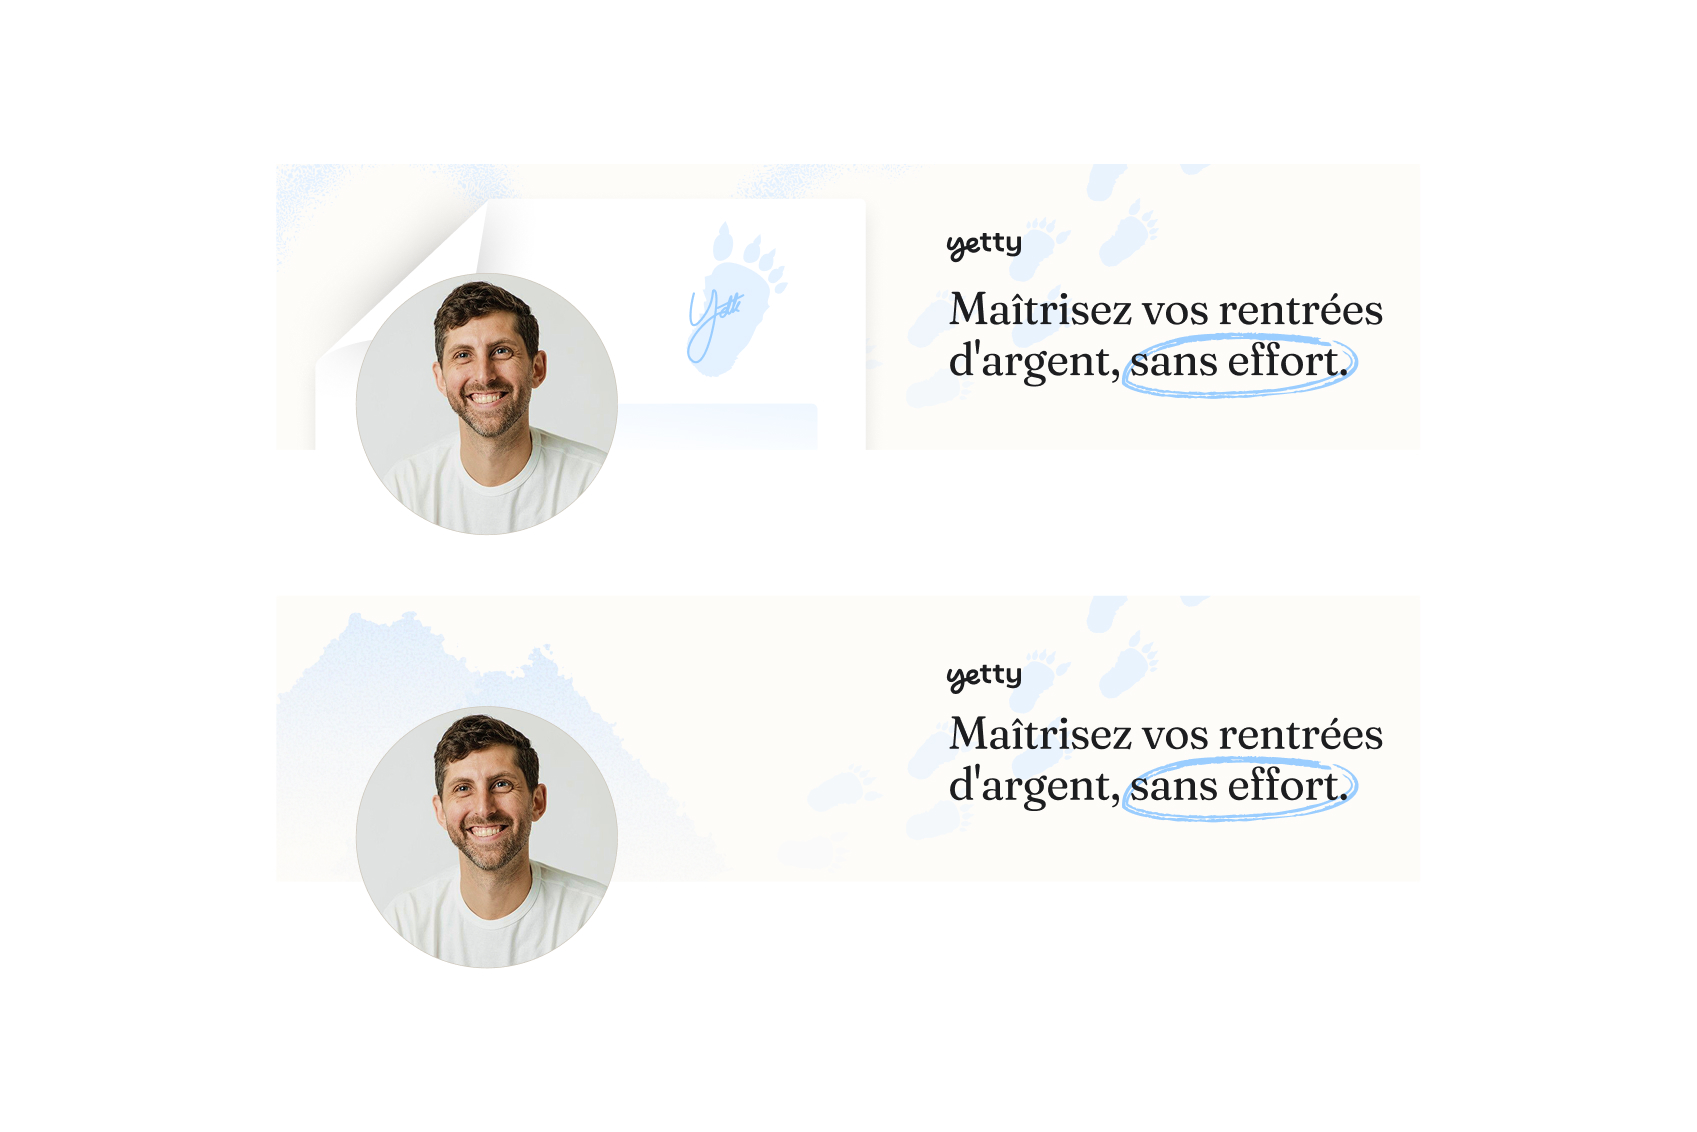
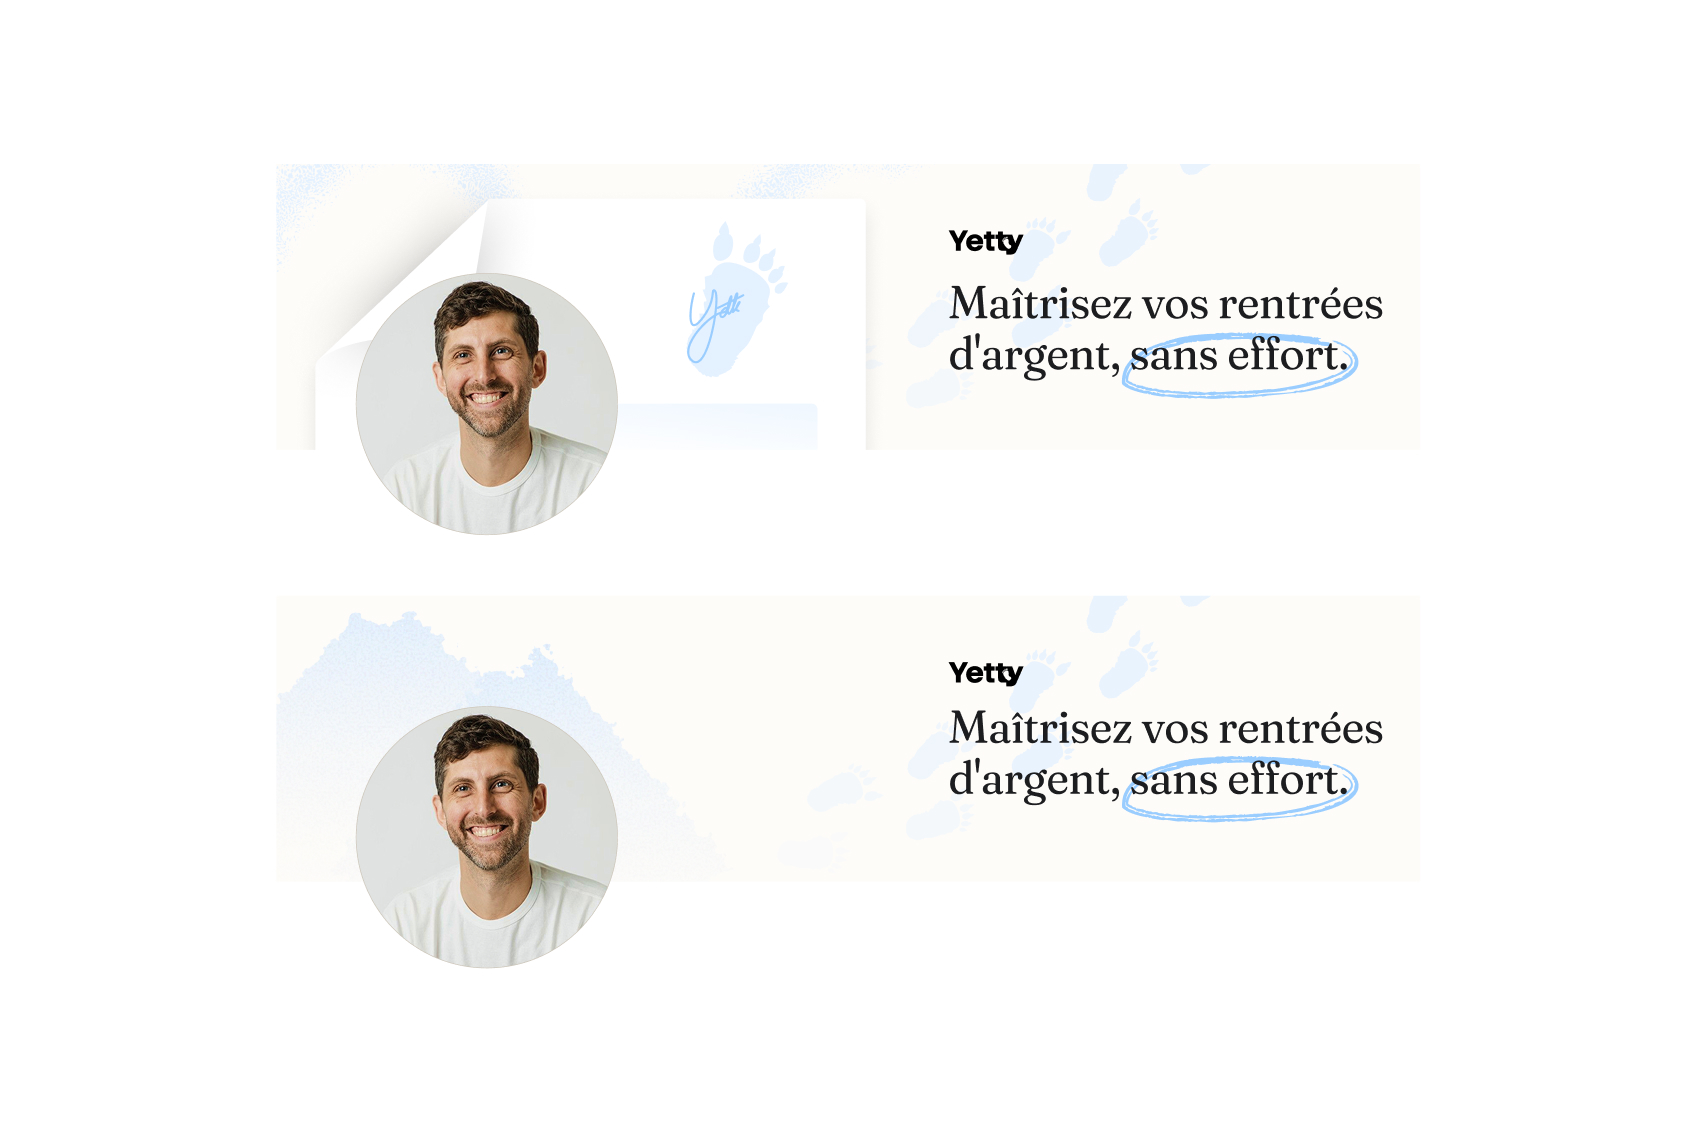
Add Paymium marquee photo and swap Yetty visuals 2, 4, 5
Follow-up to 60abd1d: that commit only captured the removal of the old
paymium-graphic/coin assets, not the actual new image and markup/visual
changes (partial git add failure).

Changed region(s): [[0.5622, 0.5875, 0.812, 0.7111], [0.5622, 0.1855, 0.812, 0.3401]]

diff --git a/index.html b/index.html
@@ -64,23 +64,6 @@
     .yetty-mascot { width: 40%; height: auto; display: block; }
 
     .card-paymium { background: #ffffff; }
-    .paymium-graphic {
-      position: absolute;
-      left: 48.206%;
-      top: 42.706%;
-      transform: translate(-50%, -50%);
-      width: 103.59%;
-      height: auto;
-    }
-    .paymium-coin {
-      position: absolute;
-      left: 40.724%;
-      top: 103.94%;
-      transform: translate(-50%, -50%);
-      width: 164.13%;
-      aspect-ratio: 1 / 1;
-      object-fit: cover;
-    }
 
     .pixid-overlay { position: absolute; inset: 0; background: rgba(0, 0, 0, 0.18); }
     .pixid-logo {
@@ -170,8 +153,7 @@
           <img class="yetty-mascot" src="assets/home-marquee/yetty-mascot.png" alt="Yetty">
         </a>
         <a class="marquee-card card-paymium" href="project-paymium.html">
-          <img class="paymium-graphic" src="assets/home-marquee/paymium-graphic.svg" alt="Paymium">
-          <img class="paymium-coin" src="assets/home-marquee/coin.png" alt="">
+          <img class="bg-cover" src="assets/home-marquee/paymium-card.jpg" alt="Paymium">
         </a>
         <a class="marquee-card card-pixid" href="project-pixid.html">
           <img class="bg-cover" src="assets/home-marquee/pixid-bg.jpg" alt="Pixid">
@@ -201,8 +183,7 @@
           <img class="yetty-mascot" src="assets/home-marquee/yetty-mascot.png" alt="Yetty">
         </a>
         <a class="marquee-card card-paymium" href="project-paymium.html">
-          <img class="paymium-graphic" src="assets/home-marquee/paymium-graphic.svg" alt="Paymium">
-          <img class="paymium-coin" src="assets/home-marquee/coin.png" alt="">
+          <img class="bg-cover" src="assets/home-marquee/paymium-card.jpg" alt="Paymium">
         </a>
         <a class="marquee-card card-pixid" href="project-pixid.html">
           <img class="bg-cover" src="assets/home-marquee/pixid-bg.jpg" alt="Pixid">
@@ -236,8 +217,7 @@
         <img class="yetty-mascot" src="assets/home-marquee/yetty-mascot.png" alt="Yetty">
       </a>
       <a class="marquee-card card-paymium" href="project-paymium.html">
-        <img class="paymium-graphic" src="assets/home-marquee/paymium-graphic.svg" alt="Paymium">
-        <img class="paymium-coin" src="assets/home-marquee/coin.png" alt="">
+        <img class="bg-cover" src="assets/home-marquee/paymium-card.jpg" alt="Paymium">
       </a>
       <a class="marquee-card card-pixid" href="project-pixid.html">
         <img class="bg-cover" src="assets/home-marquee/pixid-bg.jpg" alt="Pixid">
